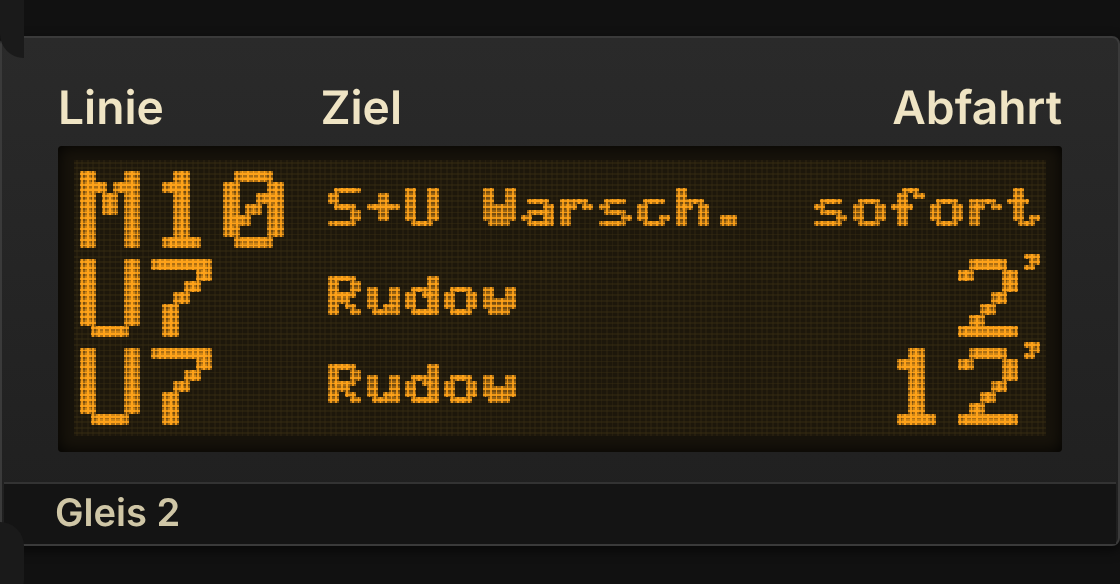
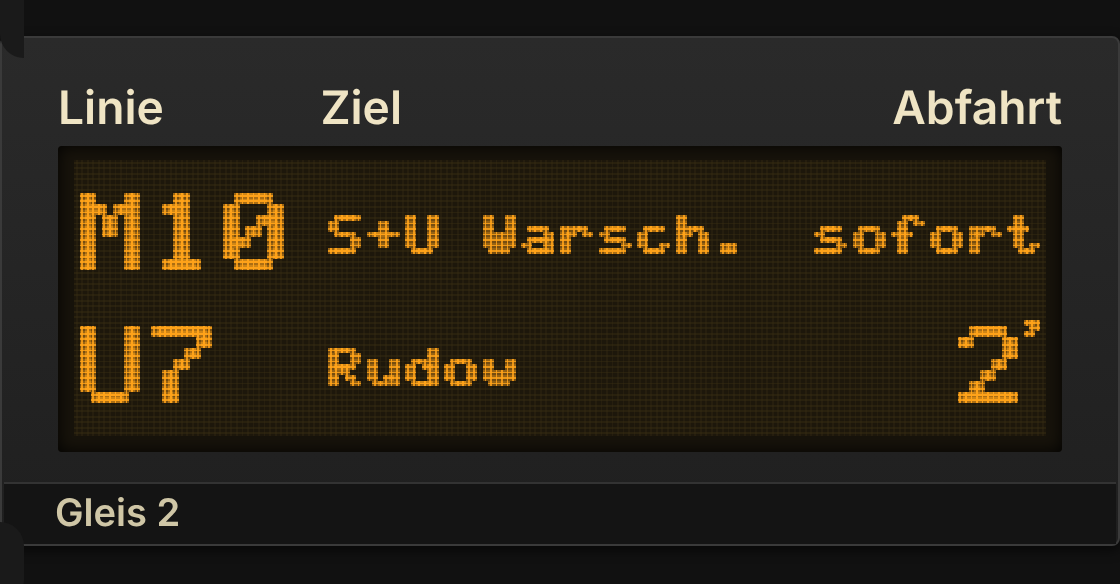
Give the platform style the proportions of the real display
Taller rows (big digits fill ~60% of a row) and auto grid height so the
card is not squeezed into fixed section rows. Version 1.10.0-beta.2.

Claude-Session: https://claude.ai/code/session_011VVxXXVSAqAyNCx9HSjwij

diff --git a/custom_components/bvg_display/www/bvg-display-card.js b/custom_components/bvg_display/www/bvg-display-card.js
@@ -25,6 +25,11 @@ const DEFAULT_STYLE = 'led_matrix';
 const DEFAULT_LED_COLOR = '#ffa31a';
 // Logical x where the "Ziel" column starts in the bvg_platform style.
 const PLATFORM_DEST_X = 46;
+// Row pitch of bvg_platform: like the real display, the big digits fill
+// about 60% of a row, leaving dark space between departures.
+const PLATFORM_ROW_HEIGHT = 24;
+const PLATFORM_BIG_Y = 5;   // top of the double-size glyphs within a row
+const PLATFORM_SMALL_Y = 9; // top of normal glyphs, vertically centered
 
 class BvgDisplayCard extends HTMLElement {
   static get properties() {
@@ -194,7 +199,7 @@ class BvgDisplayCard extends HTMLElement {
   // rows so line and minutes can be drawn in the double-size LED font.
   _layout() {
     return this._style === 'bvg_platform'
-      ? { width: 176, rowHeight: 16 }
+      ? { width: 176, rowHeight: PLATFORM_ROW_HEIGHT }
       : { width: 128, rowHeight: 10 };
   }
 
@@ -568,7 +573,7 @@ class BvgDisplayCard extends HTMLElement {
     // Line: double size if it fits the column ("U7", "M10"), else normal.
     const line = (dep.line || '?').toUpperCase();
     const lineBig = this._textWidth(line, big) <= PLATFORM_DEST_X - 4;
-    this._drawString(ctx, line, 1, lineBig ? y + 1 : y + 4, color, scale,
+    this._drawString(ctx, line, 1, y + (lineBig ? PLATFORM_BIG_Y : PLATFORM_SMALL_Y), color, scale,
       lineBig ? big : small);
 
     // Minutes: "2'" in the big font; text states in the normal font.
@@ -589,15 +594,17 @@ class BvgDisplayCard extends HTMLElement {
     const tick = timeOpts === big && timeStr !== '--';
     const tickW = tick ? 4 : 0;
     const timeX = W - 1 - tickW - this._textWidth(timeStr, timeOpts);
-    this._drawString(ctx, timeStr, timeX, timeOpts === big ? y + 1 : y + 4,
+    this._drawString(ctx, timeStr, timeX,
+      y + (timeOpts === big ? PLATFORM_BIG_Y : PLATFORM_SMALL_Y),
       color, scale, timeOpts);
     if (tick) {
-      this._drawString(ctx, "'", W - 1 - tickW, y, color, scale, small);
+      this._drawString(ctx, "'", W - 1 - tickW, y + PLATFORM_BIG_Y - 1, color, scale, small);
     }
 
     const advance = this._textWidth('a', small) + 1;
     const chars = Math.floor((timeX - 6 - PLATFORM_DEST_X) / advance);
-    this._drawString(ctx, this._fit(dep.direction || '', chars), PLATFORM_DEST_X, y + 4,
+    this._drawString(ctx, this._fit(dep.direction || '', chars), PLATFORM_DEST_X,
+      y + PLATFORM_SMALL_Y,
       color, scale, small);
   }
 
@@ -736,11 +743,19 @@ class BvgDisplayCard extends HTMLElement {
   }
 
   getCardSize() {
-    const extra = this._style === 'bvg_platform' ? 2 : 0; // labels + footer strip
-    return Math.max(2, Math.ceil(this._rows * 1.2) + extra);
+    if (this._style === 'bvg_platform') {
+      // Taller rows plus the printed labels and footer strip.
+      return Math.max(3, Math.ceil(this._rows * 1.6) + 2);
+    }
+    return Math.max(2, Math.ceil(this._rows * 1.2));
   }
 
   getGridOptions() {
+    if (this._style === 'bvg_platform') {
+      // Let the card take the height its fixed aspect ratio needs instead
+      // of being squeezed into a fixed number of grid rows.
+      return { rows: 'auto', columns: 12, min_columns: 6 };
+    }
     return {
       rows: Math.max(2, this._rows + (this._style === 'bvg_platform' ? 2 : 0)),
       columns: 12,
